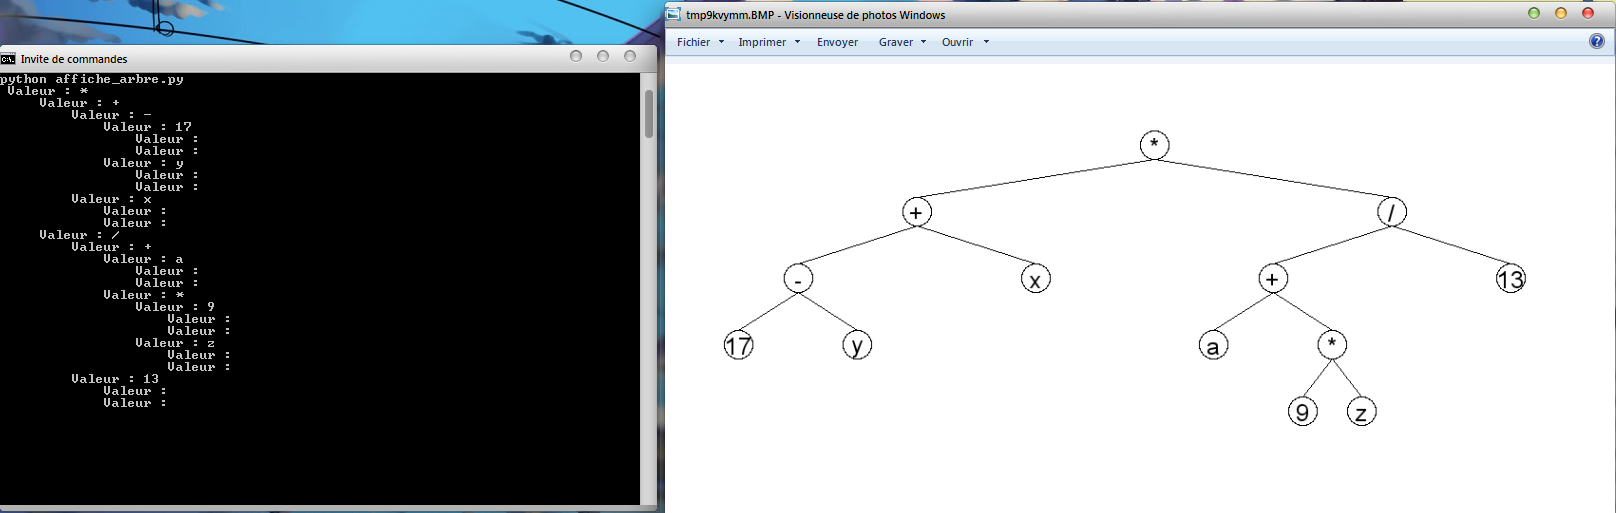
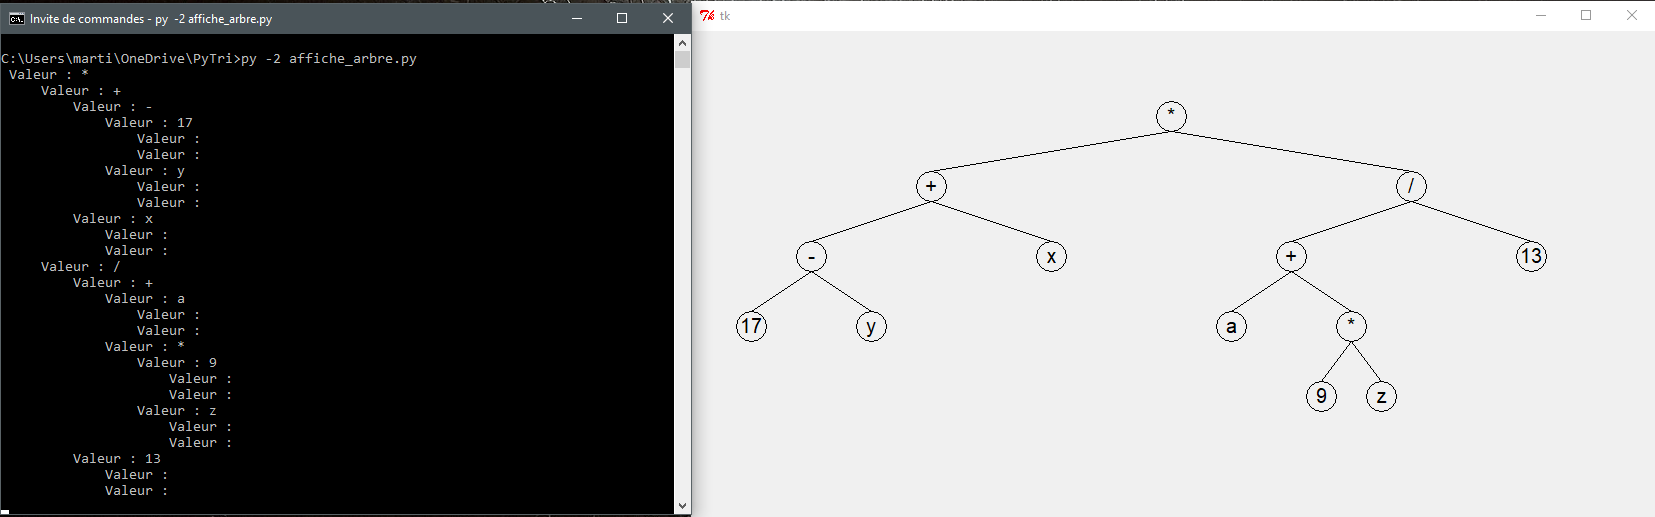
Changement de librairie => Passage de Pillow à Tkinter

diff --git a/Code/affiche_arbre.py b/Code/affiche_arbre.py
@@ -2,16 +2,9 @@
 
 import os, sys
 
-# Si Pillow n'est pas installé, alors on tente de l'installer avant
-try:
-	from PIL import Image
-	from PIL import ImageColor
-	from PIL import ImageDraw
-	from PIL import ImageFont
-except ImportError:
-	os.system('python -m pip install pillow')
+import Tkinter as tk
+import tkFont
 
-from time import gmtime, strftime
 from saisie import *
 
 """
@@ -29,12 +22,7 @@ TAILLE_NOEUD = 30
 # Le nombre de pixels de décalage entre un noeud et ses fils
 DIMI_OFFSET = 50
 
-if(os.name == 'nt'):
-	# Sous windows le path des polices est géré
-	FONT = ImageFont.truetype('arial.ttf', TAILLE_NOEUD - 5)
-if(os.name == 'posix'):
-	# Mais sous linux il faut spécifier le chemin absolu (sur d'anciennes versions de Pillow)
-	FONT = ImageFont.truetype('/usr/share/fonts/truetype/ttf-liberation/LiberationSans-Regular.ttf', TAILLE_NOEUD - 5)
+FONT = None
 
 # Permet de calculer la hauteur d'un arbre binaire
 def calcul_hauteur_arbre(a):
@@ -62,11 +50,11 @@ def calcul_indice(indice, indiceX, niveau):
 	return [indice[0] * indiceX - (TAILLE_NOEUD / 2), (indice[1] * niveau) + DIMI_OFFSET * niveau, indice[0] * indiceX + (TAILLE_NOEUD / 2), (indice[1] * niveau) + TAILLE_NOEUD + (DIMI_OFFSET * niveau)]
 
 # Permet de dessiner l'arbre à partir d'un parcours en profondeur (récursivité)
-def dessiner(draw, a, indice, niveau, i):
+def dessiner(canvas, a, indice, niveau, i):
 	if(a != None):
-
+		global FONT
 		# La longueur & largeur du texte va nous permettre de centrer la valeur du noeud
-		textWidth, textHeight = draw.textsize(a.val, font = FONT)
+		(textWidth, textHeight) = (FONT.measure(a.val),FONT.metrics("linespace"))
 
 		# On calcul l'indice pixel sur l'axe X du noeud courant
 		IndiceX = calcul_indiceX(i, niveau)
@@ -75,51 +63,51 @@ def dessiner(draw, a, indice, niveau, i):
 		calculIndice = calcul_indice(indice, IndiceX, niveau)
 
 		# On dessine le cercle aux indices donnés
-		draw.ellipse((calculIndice[0], calculIndice[1], calculIndice[2], calculIndice[3]), outline ='black')
+		canvas.create_oval(calculIndice[0], calculIndice[1], calculIndice[2], calculIndice[3], outline ='black')
 		# Puis on dessine le texte au milieu
-		draw.text((get_center_noeud(calculIndice[0], calculIndice[2], textWidth), get_center_noeud(calculIndice[1], calculIndice[3], textHeight)), a.val, font = FONT, fill = 'black')
+		canvas.create_text(get_center_noeud(calculIndice[0], calculIndice[2], textWidth), get_center_noeud(calculIndice[1], calculIndice[3], textHeight), text = a.val, font = FONT, fill = 'black', anchor= 'nw')
 
 		# On dessine ensuite les enfants gauche et droite
-		dessiner(draw, a.G, indice, niveau+1, i*2)
-		dessiner(draw, a.D, indice, niveau+1, (i*2)+1)
+		dessiner(canvas, a.G, indice, niveau+1, i*2)
+		dessiner(canvas, a.D, indice, niveau+1, (i*2)+1)
 
 		# Si on à un fils gauche, on calcul ses indices pour dessiner une ligne entre le noeud courant et son fils
 		if(a.G != None):
 			filsGIndice = calcul_indice(indice, calcul_indiceX(i*2, niveau+1), niveau+1)
-			draw.line((get_center_noeud(filsGIndice[0], filsGIndice[2], 0), filsGIndice[1], get_center_noeud(calculIndice[0], calculIndice[2], 0), calculIndice[3]), fill = 'black')
+			canvas.create_line(get_center_noeud(filsGIndice[0], filsGIndice[2], 0), filsGIndice[1], get_center_noeud(calculIndice[0], calculIndice[2], 0), calculIndice[3], fill = 'black')
 		# De même pour le fils droit
 		if(a.D != None):
 			filsDIndice = calcul_indice(indice, calcul_indiceX((i*2)+1, niveau+1), niveau+1)
-			draw.line((get_center_noeud(filsDIndice[0], filsDIndice[2], 0), filsDIndice[1], get_center_noeud(calculIndice[0], calculIndice[2], 0), calculIndice[3]), fill = 'black')
+			canvas.create_line(get_center_noeud(filsDIndice[0], filsDIndice[2], 0), filsDIndice[1], get_center_noeud(calculIndice[0], calculIndice[2], 0), calculIndice[3], fill = 'black')
 
-# Créer une image, dessine l'arbre dedans et l'affiche
-def dessiner_arbre(a, saveImage=False):
-	# On créé une nouvelle image
+# Créer une fenêtre et dessine l'arbre dedans
+def dessiner_arbre(a):
+	# On créé une nouvelle fenêtre graphique
+	global FONT
+
+	root = tk.Tk()
 
 	image_Largeur = (calcul_nb_noeud_niveau(calcul_hauteur_arbre(a) + 1) * TAILLE_NOEUD) * 2
-	image_Hauteur = ((calcul_hauteur_arbre(a) + 1) * (TAILLE_NOEUD + DIMI_OFFSET)) * 2
+	image_Hauteur = ((calcul_hauteur_arbre(a) + 1 + 1) * (TAILLE_NOEUD + DIMI_OFFSET))
 
-	im = Image.new("RGB", (image_Largeur, image_Hauteur), (255,255,255))
-	# On récupère la fonction de dessin
-	dr = ImageDraw.Draw(im)
+	if(image_Largeur < 500):
+		image_Largeur = 500
+	if(image_Hauteur > 1000):
+		image_Hauteur = 1000
+
+	FONT = tkFont.Font(family='Arial', size=-(TAILLE_NOEUD - 10))
+
+	canvas = tk.Canvas(root, width=image_Largeur, height=image_Hauteur)
+	canvas.pack()
 
 	# On dessine notre arbre
-	dessiner(dr, a, [image_Largeur, 20], 1, 0)
+	dessiner(canvas, a, [image_Largeur, 20], 1, 0)
 
-	# On affiche l'image dans l'explorateur d'image par défaut
-	im.show()
-	if(saveImage):
-		im.save("arbre_" + strftime("%Y-%m-%d_%Hh%Mm%Ss", gmtime()) + ".png","PNG")
-	del im
+	tk.mainloop()
 
 # Cette partie n'est exécutée que si l'on lance le script directement, et non dans les import
 if __name__ == "__main__":
-	# On demande a rentrer un arbre (saisie classique en console, se référer au fichier saisie.py)
+	# On demande à rentrer un arbre (saisie classique en console, se référer au fichier saisie.py)
 	arbre = entrerArbre(1)
 
-	if(len(sys.argv) > 1):
-		if(sys.argv[1] == "-save"):
-			# On dessine et affiche notre arbre
-			dessiner_arbre(arbre, True)
-	else:
-		dessiner_arbre(arbre)
+	dessiner_arbre(arbre)

diff --git a/README.md b/README.md
@@ -1,6 +1,6 @@
 # ![PythonLogo](https://www.python.org/static/favicon.ico) ArbreBinUI
 
-ArbreBinUI est un script python permettant l'affichage de manière graphique (image) d'un arbre binaire
+ArbreBinUI est un script python permettant l'affichage de manière graphique (librairie Tkinter) d'un arbre binaire
 
 Ce script fait appel à un autre script permettant la saisie en console d'un arbre binaire ainsi que sa représentation
 par une classe *Arbre*. Le script [saisie.py](https://github.com/Astropilot/ArbreBinUI/blob/master/Code/saisie.py) à été développé par Pierre Lartigau en 2016.
@@ -10,26 +10,14 @@ par une classe *Arbre*. Le script [saisie.py](https://github.com/Astropilot/Arbr
 # Installation et prérequis
 
 Pour utiliser correctement ce script vous avez besoin de
-*   Python 2.7
-*   Pip (recommandé si Pillow n'est pas déjà installée)
-*   La bibliothèque python Pillow
-
-Le script python tente de télécharger automatiquement la bibliothèque Pillow si elle n'est pas présente,
-si toutefois cela échoue, je vous invite à installer *Pip* avec la commande suivante:
-```sh
-$ sudo apt-get install pip
-```
-
-Et puis ensuite d'installer manuellement la bibliothèque *Pilow*:
-```sh
-$ pip install pillow
-```
+*   Python 2.*
+*   Tkinter (Librairie de base, elle est normalement installée avec Python)
 
 # Utilisation
 
 Pour utiliser ArbreBinUI, vous pouvez soit le lancer directement:
 ```sh
-$ python affiche_arbre.py [-save]
+$ python affiche_arbre.py
 ```
 
 Soit l'importer dans vos projets python pour l'utiliser, example:
@@ -38,11 +26,15 @@ Soit l'importer dans vos projets python pour l'utiliser, example:
 from affiche_arbre import *
 
 arbre = entrerArbre(1)
-dessiner_arbre(arbre) # Ne sauvegarde pas l'image
-dessiner_arbre(arbre, True) # Sauvegarde l'image dans le même répertoire que le script
+dessiner_arbre(arbre)
 ```
 
 # Changelog
+
+## 2.0 ##
+*   Changement de librairie, passage de Pillow à Tkinter
+*   Amélioration de la taille de la fenêtre en fonction de la hauteur de l'arbre
+*   Meilleur fonctionnement multi OS
 
 ## 1.1 ##
 *   La taille de l'image est générée en fonction de la hauteur de l'arbre
